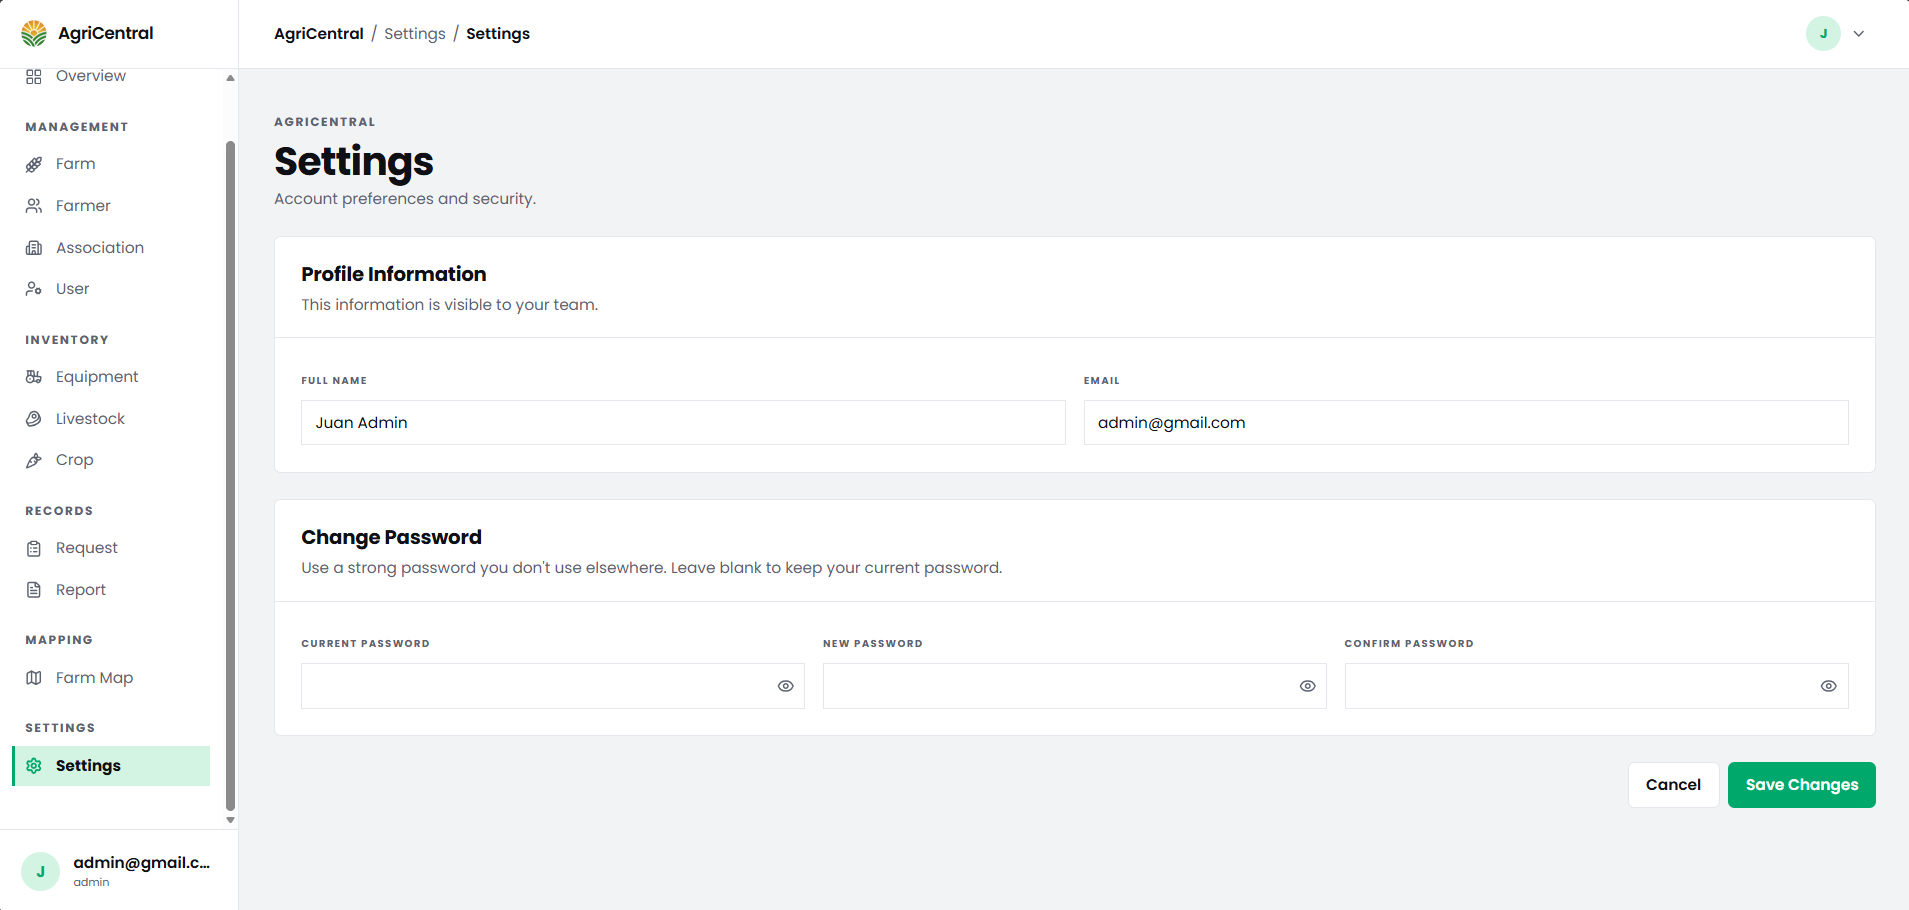
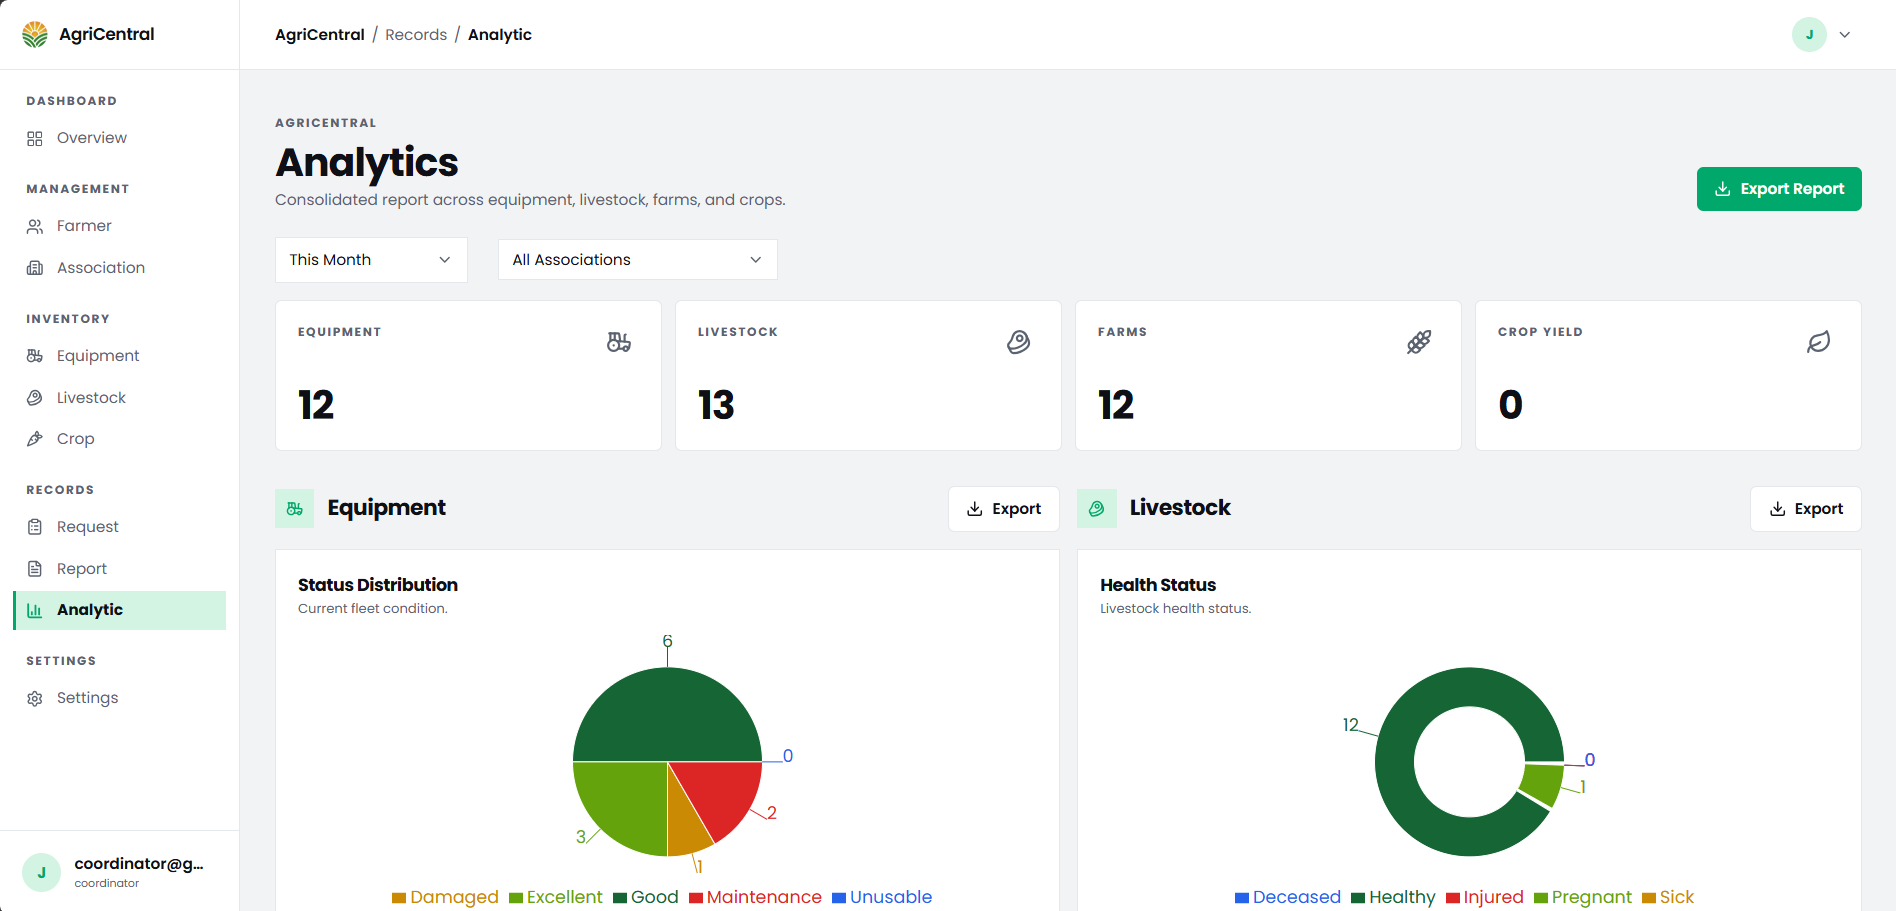
added report image in agricentral project

diff --git a/src/constants/projects.js b/src/constants/projects.js
@@ -67,6 +67,7 @@ import {
   agri18,
   agri19,
   agri20,
+  agri21,
 } from "@/assets/projects/agri";
 
 export const PROJECTS = [
@@ -421,6 +422,7 @@ export const PROJECTS = [
       agri18,
       agri19,
       agri20,
+      agri21,
     ],
     github: "https://github.com/Madrigal-Carl/AgriCentral",
     liveDemo: "https://agri-central-five.vercel.app/",

diff --git a/src/assets/projects/agri/index.js b/src/assets/projects/agri/index.js
@@ -19,6 +19,7 @@ import agri17 from "./agri17.png";
 import agri18 from "./agri18.png";
 import agri19 from "./agri19.png";
 import agri20 from "./agri20.png";
+import agri21 from "./agri21.png";
 
 export {
     agriLogo,
@@ -42,4 +43,5 @@ export {
     agri18,
     agri19,
     agri20,
+    agri21,
 };
